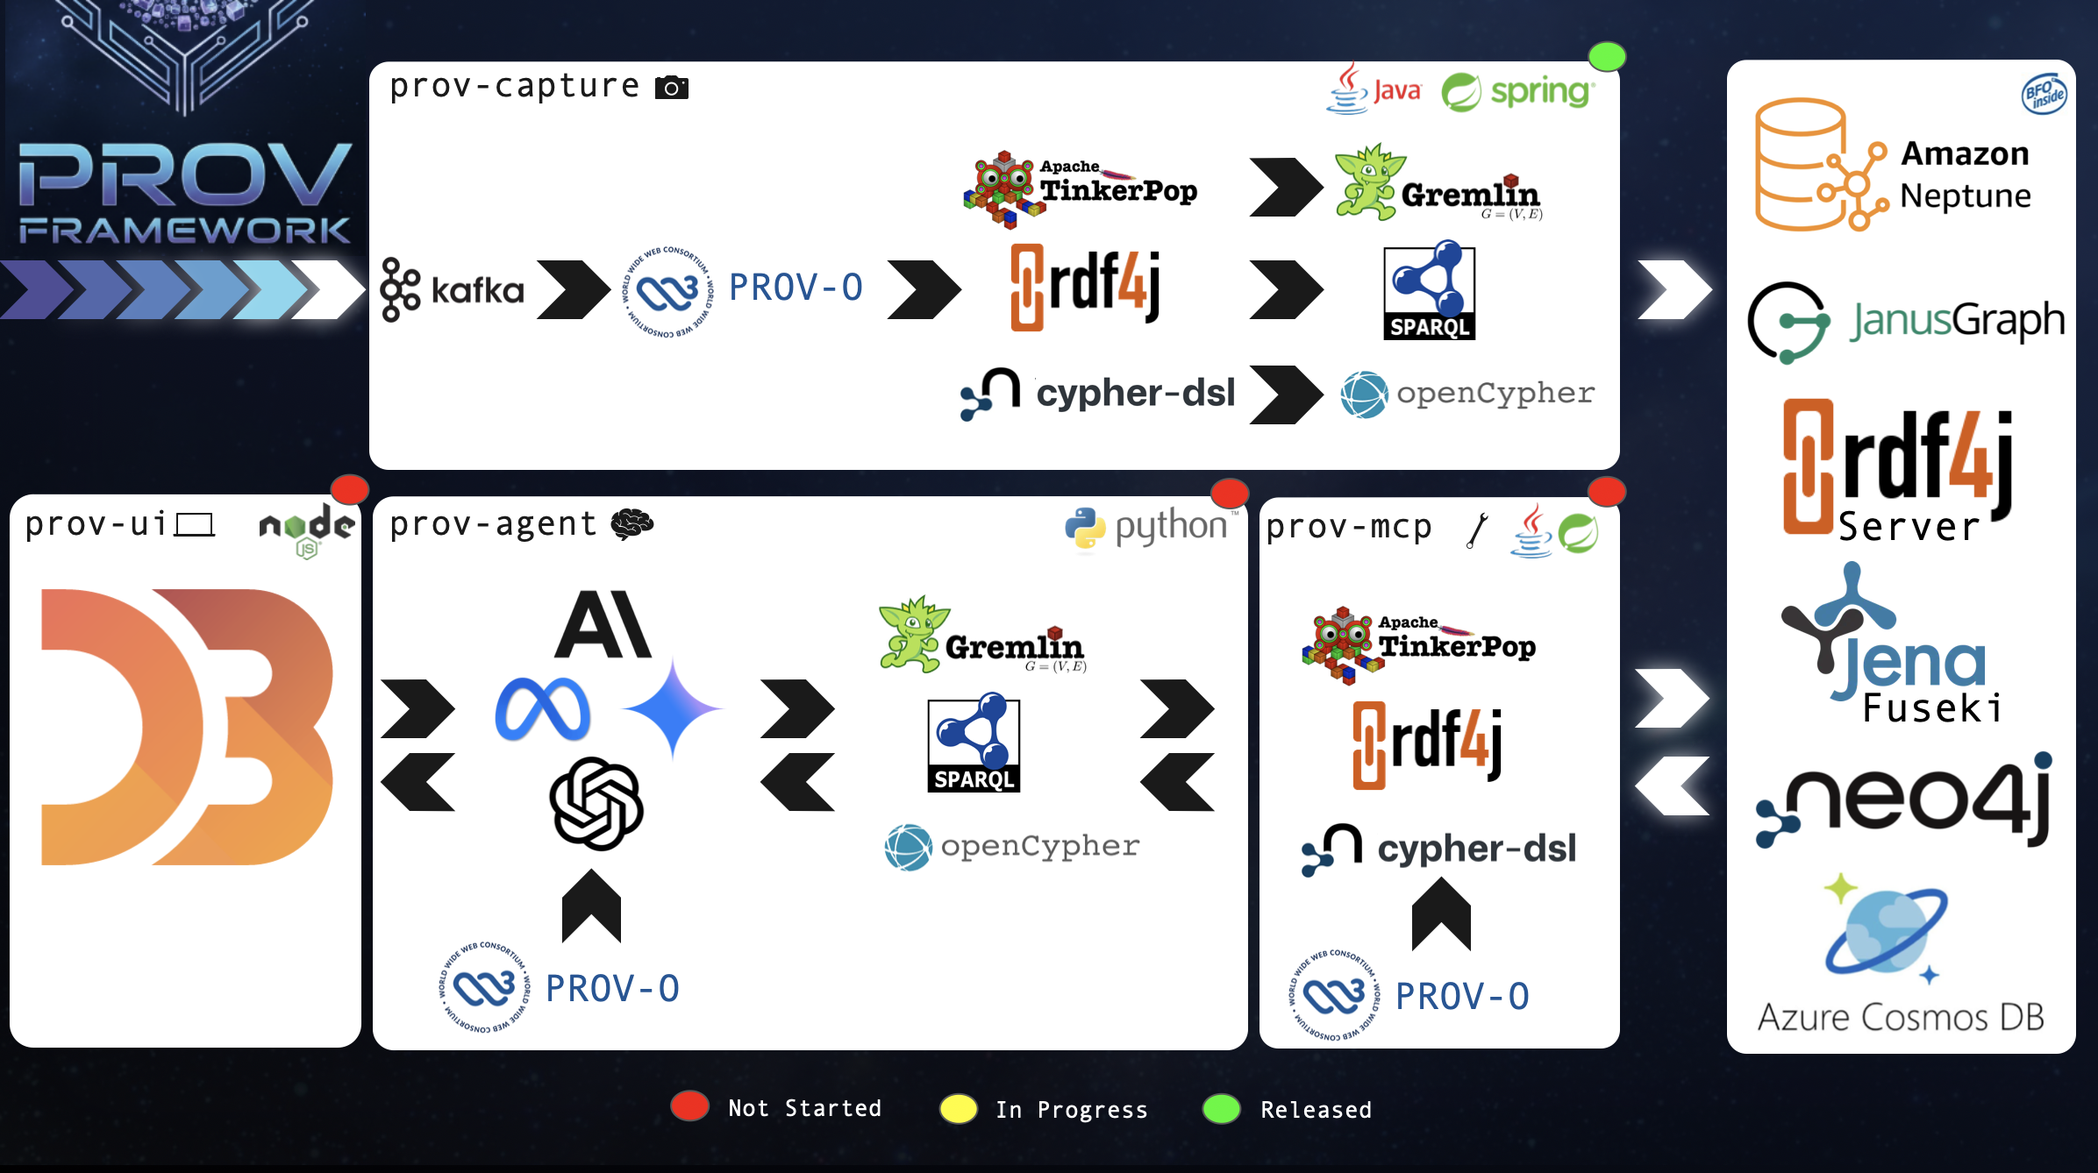
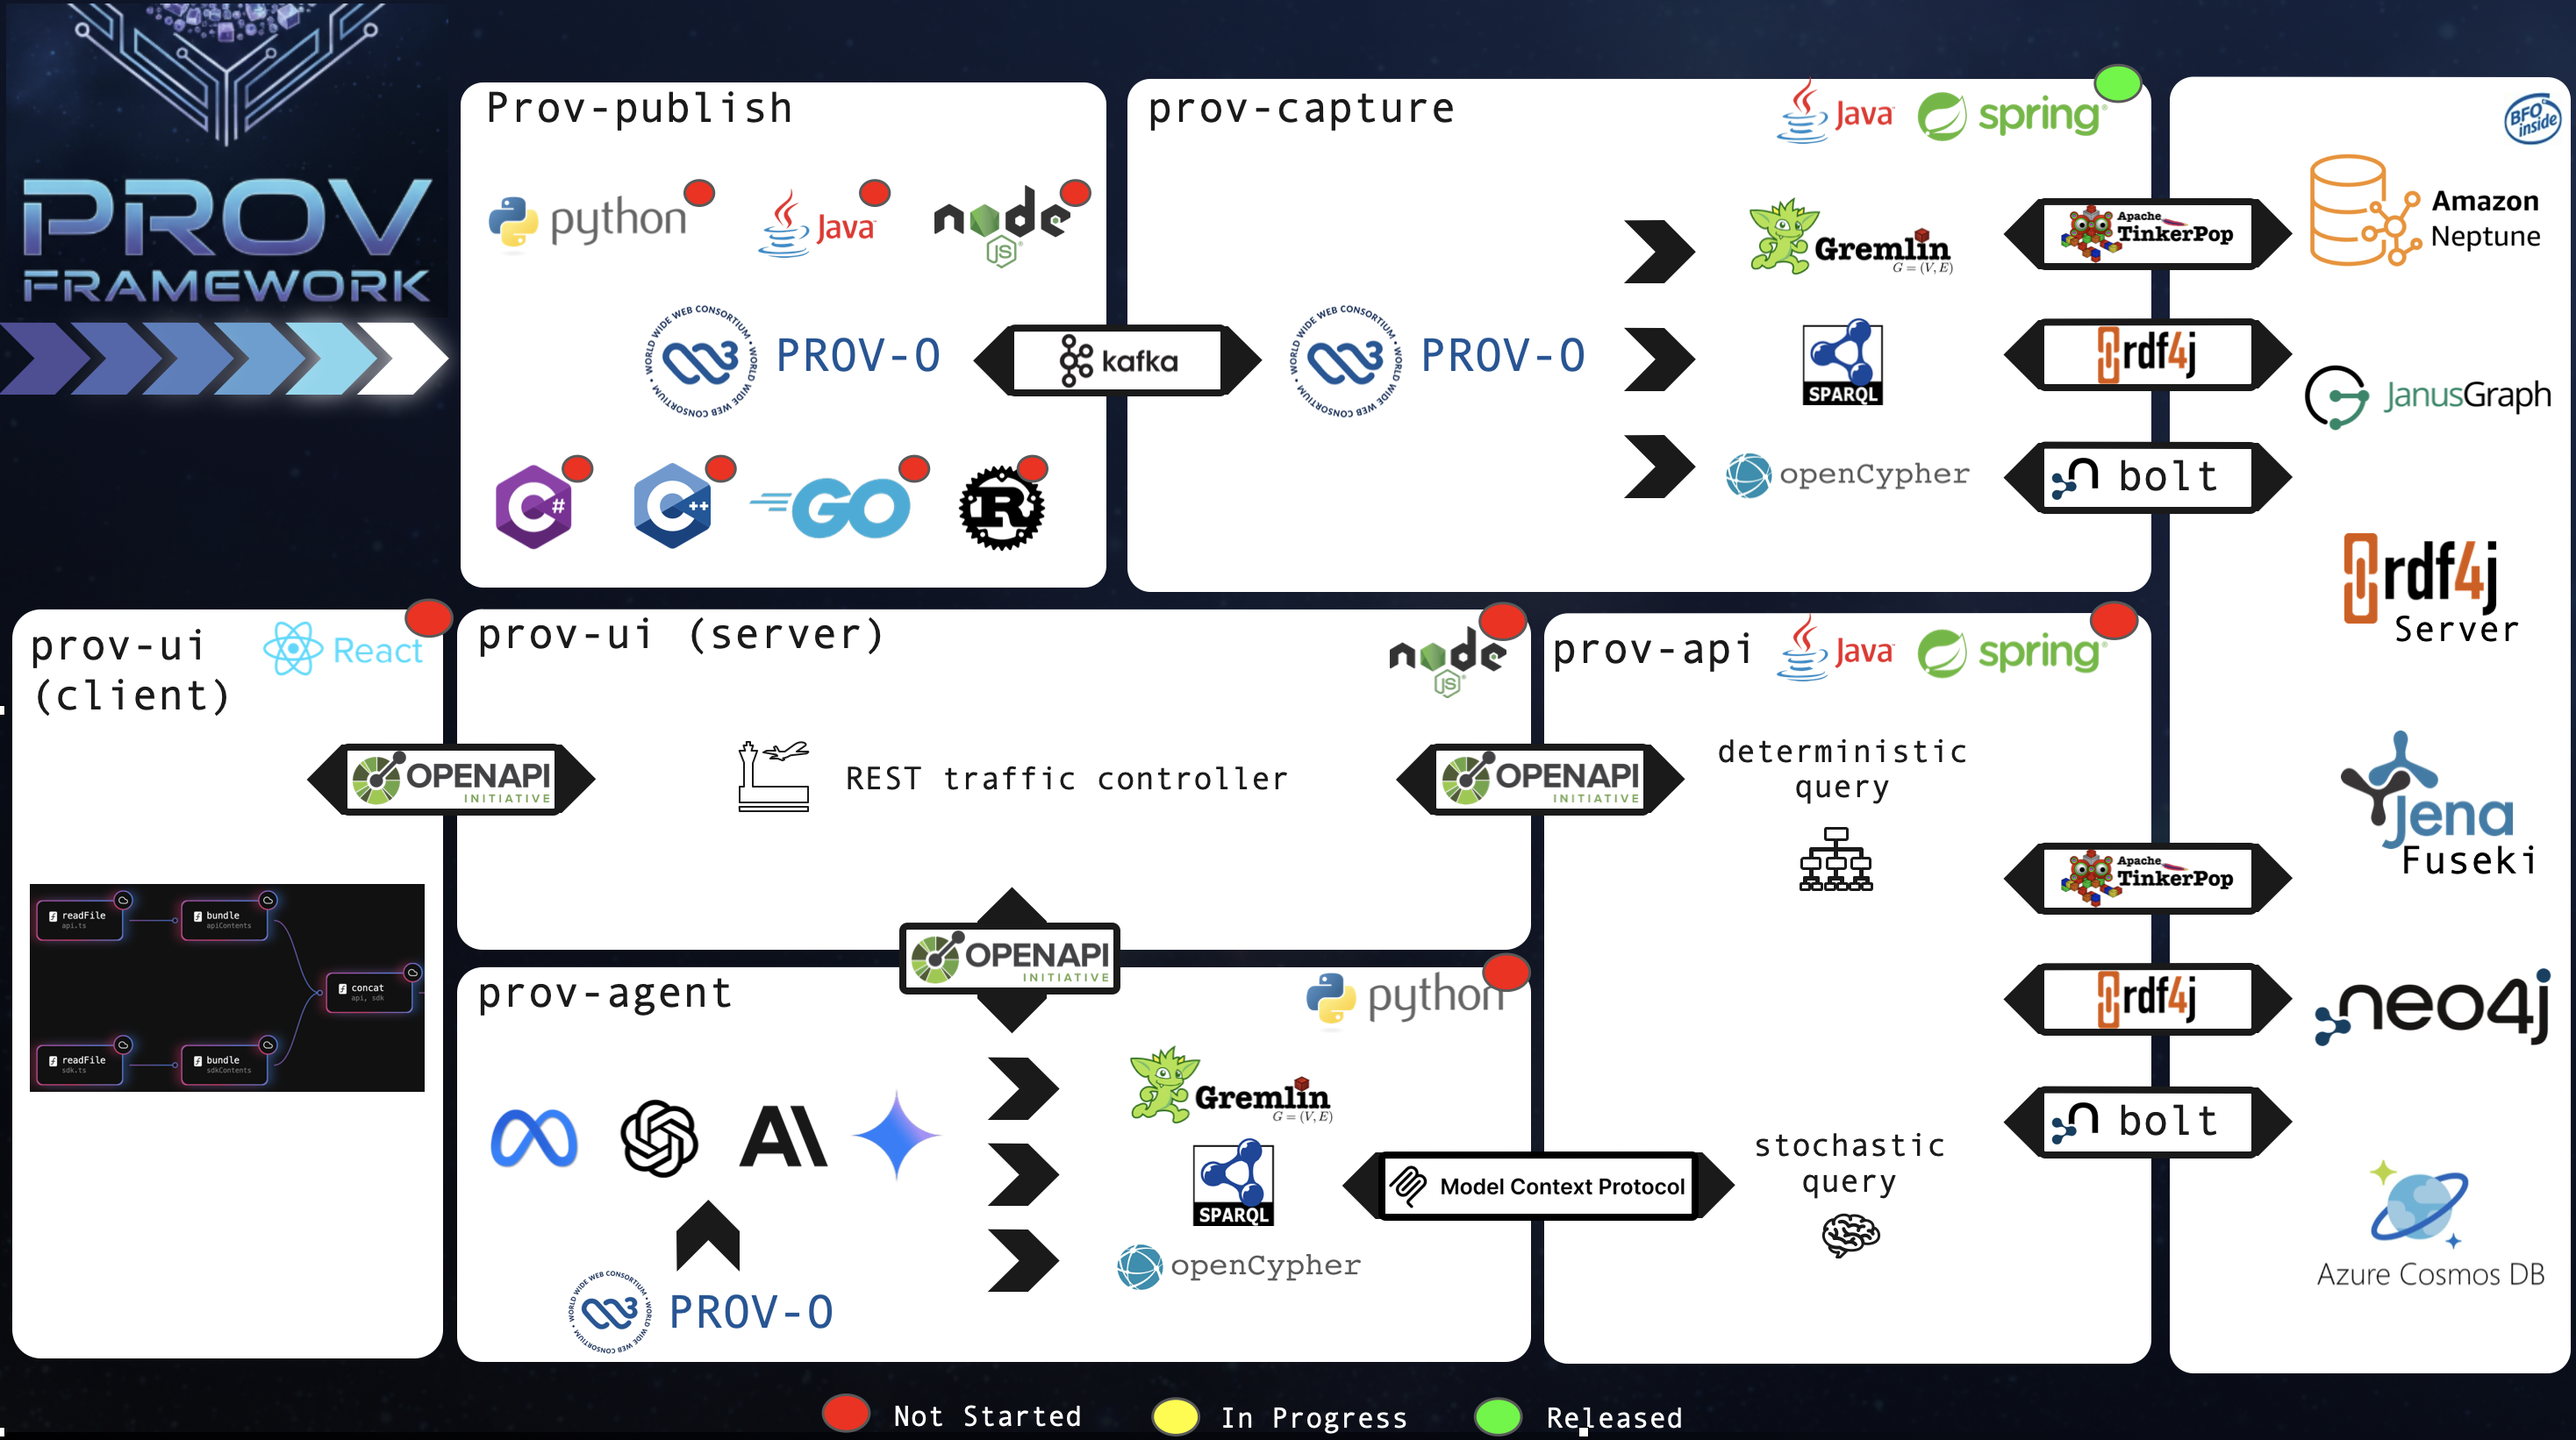
Diagram update to add ui server, and api server, as well as publish client libraries.

diff --git a/profile/README.md b/profile/README.md
@@ -12,8 +12,8 @@ This is a starting point not a finished product. This is a deliberate choice.
 Closed source products often lead to problems when an organization has existing cloud or database licenses, internal authentication services, or hardened docker images that they require teams to utilize. This project prioritizes flexiblity, stopping short of those final productizing decisions because integration points to existing organizational systems and processes are where the most customization is needed. 
 
 ### Steps to start using the framework
-1) Clone the repo.
-2) Remove the graph libraries you don't need. If you are using Neo4j, no need to keep Apache Tinkerpop or Jena. More software libraries means more security vulnerabilities and code maintenance. 
+1) Fork/Clone the repo.
+2) Remove the graph libraries you don't need. If you are using Neo4j, no need to keep Apache Tinkerpop. More software libraries means more security vulnerabilities and code maintenance. 
 3) Configure authentication specific to the database you are using. For example, connecting to AWS Neptune might require AWS IAM configuration, or your organization may have custom internal authentication services.
 4) Choose and build a docker container that meets your needs. Different organizations have different security requirements, and may have internally hardened images they prefer to use.
 
